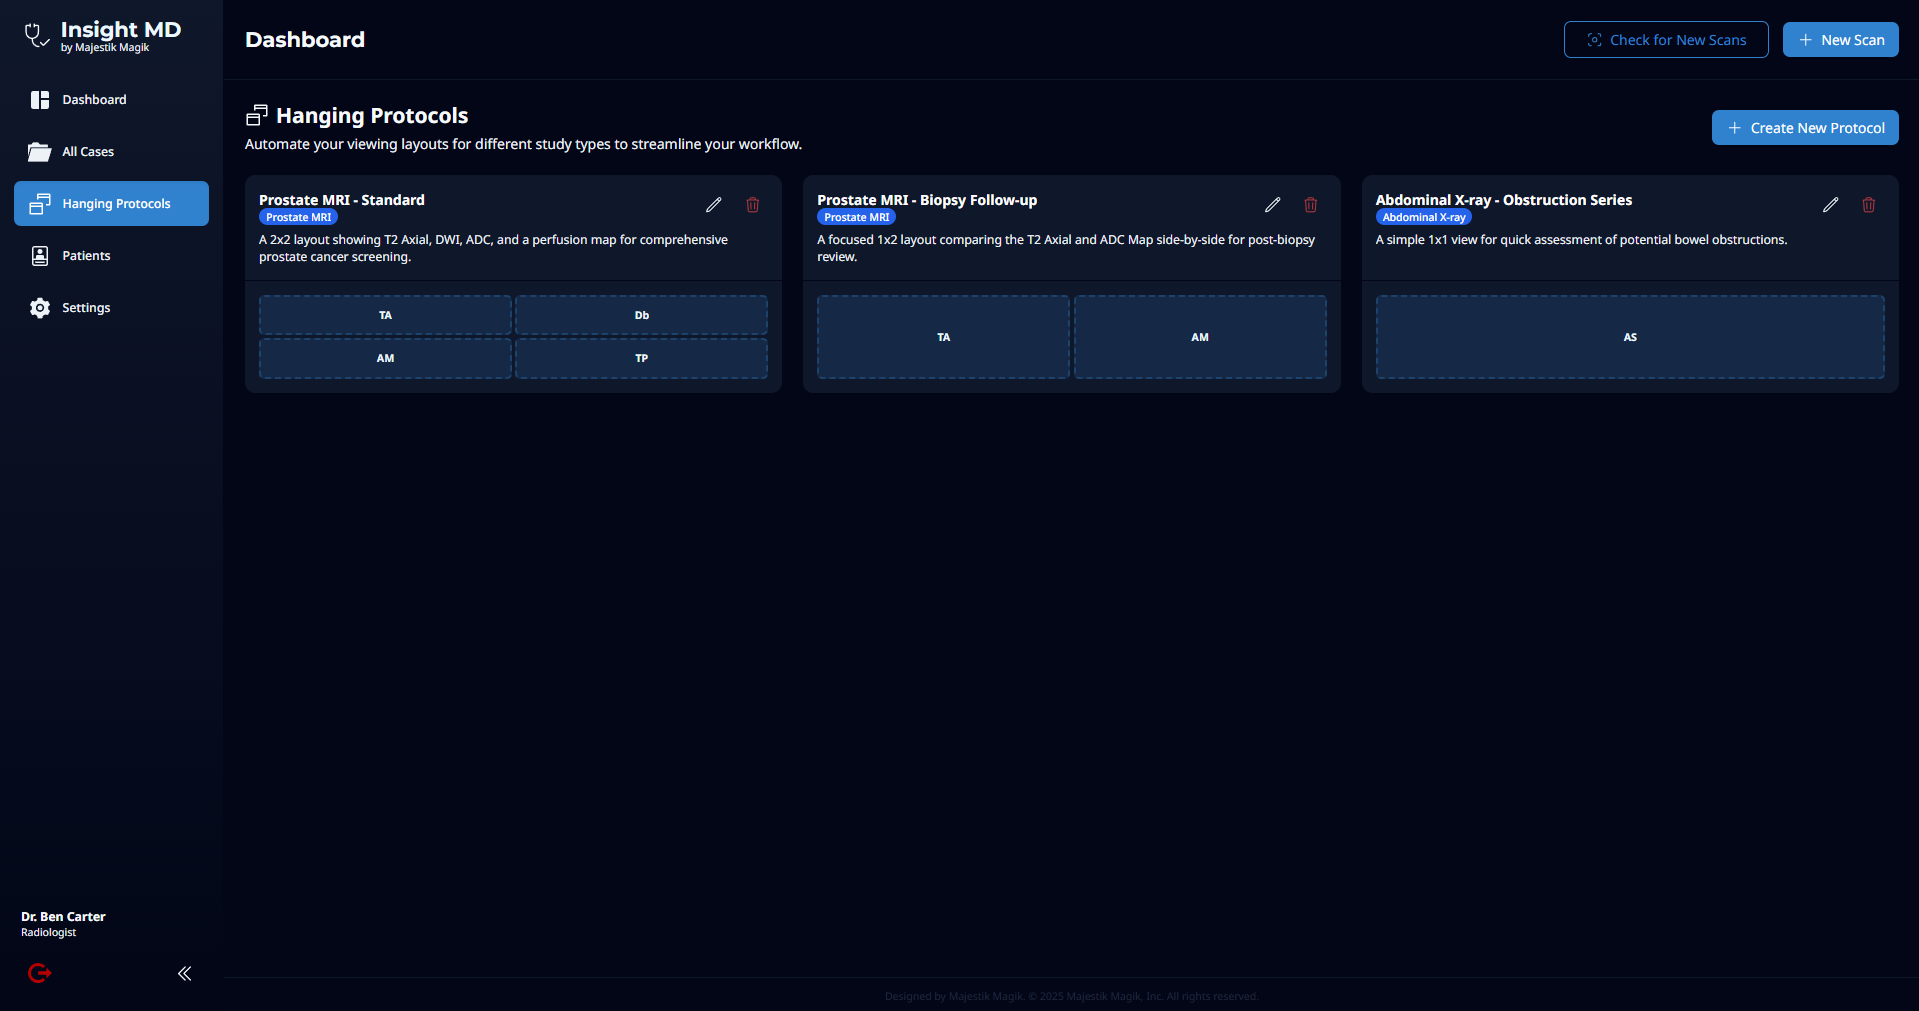
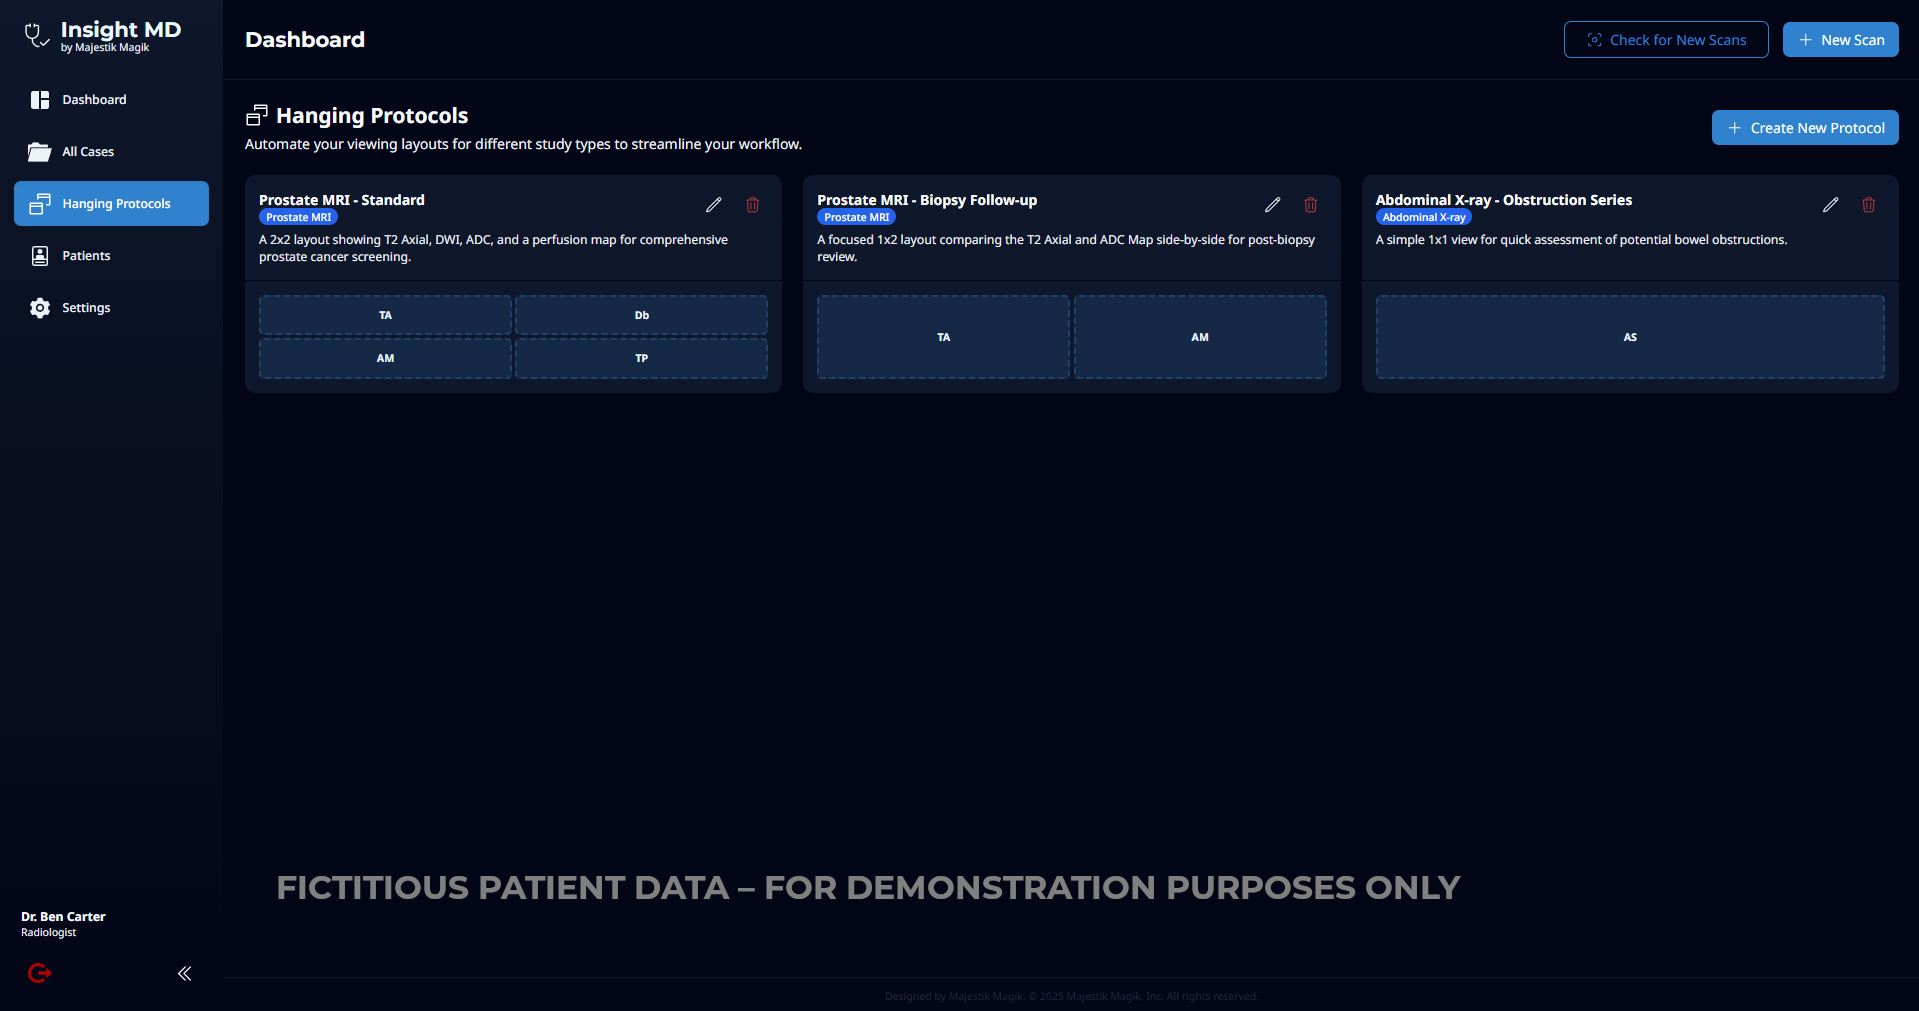
Updating the MMLabs

Changed region(s): [[0.123, 0.8586, 0.7686, 0.8892]]

diff --git a/src/app/labs/page.tsx b/src/app/labs/page.tsx
@@ -93,12 +93,12 @@ const LabsContent = () => {
             <div>
                 <h2 className="text-3xl font-bold text-center text-slate-100 mb-10">From Vision to Reality</h2>
                 <div className="grid grid-cols-1 md:grid-cols-2 gap-4">
-                    <Image src="/img/insightmd_01.png" alt="Prototype 1" width={1000} height={1000} className="w-full h-auto rounded-lg shadow" />
-                    <Image src="/img/insightmd_02.png" alt="Prototype 2" width={1000} height={1000} className="w-full h-auto rounded-lg shadow" />
-                    <Image src="/img/insightmd_03.png" alt="Prototype 3" width={1000} height={1000} className="w-full h-auto rounded-lg shadow" />
-                    <Image src="/img/insightmd_04.png" alt="Prototype 4" width={1000} height={1000} className="w-full h-auto rounded-lg shadow" />
+                   <Link href="/img/insightmd_01.png"> <Image src="/img/insightmd_01.png" alt="Prototype 1" width={1000} height={1000} className="w-full h-auto rounded-lg shadow" /></Link>
+                   <Link href="/img/insightmd_02.png"> <Image src="/img/insightmd_02.png" alt="Prototype 2" width={1000} height={1000} className="w-full h-auto rounded-lg shadow" /></Link>
+                   <Link href="/img/insightmd_03.png"> <Image src="/img/insightmd_03.png" alt="Prototype 3" width={1000} height={1000} className="w-full h-auto rounded-lg shadow" /></Link>
+                   <Link href="/img/insightmd_04.png"> <Image src="/img/insightmd_04.png" alt="Prototype 4" width={1000} height={1000} className="w-full h-auto rounded-lg shadow" /></Link>
                 </div>
-                <p className="text-center text-xs text-slate-500 mt-2">High-fidelity prototypes of the Insight MD platform.</p>
+                <p className="text-center text-xs text-slate-500 mt-2 font-bold">NOTE: THIS IS FICTITIOUS PATIENT DATA – FOR DEMONSTRATION PURPOSES ONLY. High-fidelity prototypes of the Insight MD platform.</p>
             </div>
 
             {/* --- ROADMAP SECTION --- */}
@@ -119,13 +119,13 @@ const LabsContent = () => {
                             <h3 className="text-lg font-semibold text-slate-100">SBIR Grant & Clinical Partnership</h3>
                             <p className="text-base font-normal text-slate-400">Preparing a Phase I SBIR grant proposal to the National Cancer Institute (NCI) and establishing a foundational research partnership with a clinical partner.</p>
                             <p className="mt-4"><strong>July 28, 2025</strong></p>
-                            <ul className="text-base font-normal text-slate-400">- Secured and approved $2,000 in cloud credits from the <a href="https://cloud.google.com/startup" className="hover:text-indigo-400" target="_blank">Google Cloud Startup Program</a> for the development of the Insight MD platform. </ul>
+                            <ul className="text-base font-normal text-slate-400">- Secured and approved $2,000 in cloud credits from the <a href="https://cloud.google.com/startup" className="hover:text-indigo-400 ease-in-out duration-300" target="_blank">Google Cloud Startup Program</a> for the development of the Insight MD platform. </ul>
                             <p className="mt-4"><strong>July 29, 2025</strong></p>
-                            <ul className="text-base font-normal text-slate-400">- Awaiting confirmation for $5,000 in cloud credits from the AWS Startup program for development of the Insight MD platform. </ul>
+                            <ul className="text-base font-normal text-slate-400">- Awaiting confirmation for $5,000 in cloud credits from the <a href="https://aws.amazon.com/startups/" className="hover:text-indigo-400 ease-in-out duration-300" target="_blank">AWS Startup Program</a> for development of the Insight MD platform. </ul>
                             <ul className="text-base font-normal text-slate-400">- Awaiting confirmation for SAM.gov entity registration. </ul>
-                            <ul className="text-base font-normal text-slate-400">- Sending email proposals to potential clinical partners. <b><a href="/data/research_sbir/A_Clinician-Centric_AI_Co-Pilot_for_Enhanced_Grading_and_Detection_of_Prostate_Cancer_on_MRI.pdf" className="hover:text-indigo-400" target="_blank">[DOWNLOAD PDF]</a></b>  </ul>
+                            <ul className="text-base font-normal text-slate-400">- Sending email proposals to potential clinical partners. <b><a href="/data/research_sbir/A_Clinician-Centric_AI_Co-Pilot_for_Enhanced_Grading_and_Detection_of_Prostate_Cancer_on_MRI.pdf" className="hover:text-indigo-400 ease-in-out duration-300" target="_blank">[DOWNLOAD PDF]</a></b>  </ul>
                             <p className="mt-4"><strong>July 30, 2025</strong></p>
-                            <ul className="text-base font-normal text-slate-400">- Awaiting confirmation on AWS Build with Llama application. </ul>
+                            <ul className="text-base font-normal text-slate-400">- Awaiting confirmation on <a href="https://aws.amazon.com/startups/lp/llama-for-aws-startups?trk=5c641b85-cb9f-49e9-9b6b-2356ed253060&sc_channel=el" className="hover:text-indigo-400 ease-in-out duration-300" target="_blank">AWS Build with Llama</a> application. </ul>
                         </li>
                         <li className="ml-4">
                             <div className="absolute w-3 h-3 bg-slate-700 rounded-full mt-1.5 -left-1.5 border border-slate-900"></div>
@@ -144,7 +144,7 @@ const LabsContent = () => {
                    
                     <a href="https://cloud.google.com/startup" target="_blank"><Image src="/img/gcp-logo.png" alt="Google Cloud" width={258} height={159} /></a>
                 </div>
-                <p className="text-center text-sm text-slate-400 mt-4">Insight MD is powered by world-class compute partnerships for scalable and secure AI development.</p>
+                <p className="text-center text-sm text-slate-400 mt-4">Insight MD is powered by world-class compute partnerships for scalable and secure HIPAA compliant cloud-based AI development.</p>
             </div>
         </div>
     );
